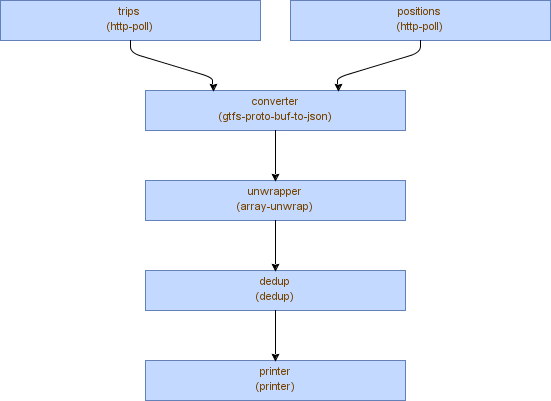
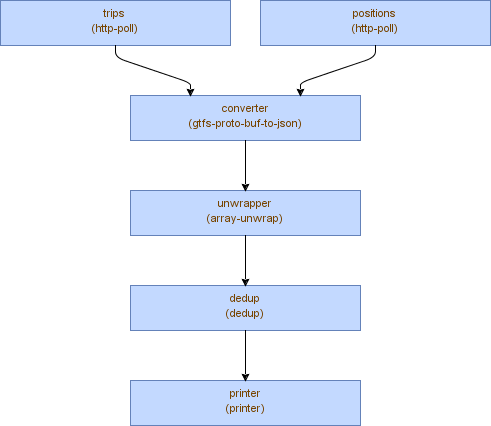
composition-drawer: refactoring

diff --git a/libs/composition-drawer/src/GenerateCompositionImageTask.kt b/libs/composition-drawer/src/GenerateCompositionImageTask.kt
@@ -1,13 +1,12 @@
-package com.satori.libs.composition.drawer
-
 import com.mxgraph.util.*
+import com.satori.libs.composition.drawer.*
 import org.gradle.api.*
 import org.gradle.api.tasks.*
 import java.awt.*
 import java.io.*
 import javax.imageio.*
 
-open class GenerateCompositionImageTask : DefaultTask() {
+open class GenerateCompositionDiagramTask : DefaultTask() {
   
   @InputFile
   var cfgPath: File? = null

diff --git a/libs/composition-drawer/tests/src/com/satori/libs/composition/drawer/AppExample.kt b/libs/composition-drawer/tests/src/com/satori/libs/composition/drawer/AppExample.kt
@@ -6,6 +6,8 @@ object AppExample {
   fun main(vararg args: String) {
     App.main(
       "--cfg-path", "mods-examples/big-blue-bus/res/com/satori/mods/resources/config.json",
+      "--block-width", "100",
+      "--block-height", "100",
       "--img-path", "big-blue-bus.png"
     )
   }

diff --git a/libs/composition-drawer/src/com/satori/libs/composition/drawer/Lib.kt b/libs/composition-drawer/src/com/satori/libs/composition/drawer/Lib.kt
@@ -73,6 +73,6 @@ fun createGraph(cfgPath: String) = createGraph(
 )
 
 fun createGraph(cfgPath: String, width: Double, height: Double) = createGraph(
-  File(cfgPath), CompositionGraphWriter.defaultWidth, CompositionGraphWriter.defaultHeight
+  File(cfgPath), width, height
 )
 

diff --git a/libs/composition-drawer/readme.template.md b/libs/composition-drawer/readme.template.md
@@ -1,0 +1,91 @@
+## Composition diagram drawer
+
+
+#### Example using dedicated 'GenerateCompositionDiagram' gradle task
+```gradle
+buildscript{
+  repositories {
+    mavenCentral()
+    maven {
+      url('https://oss.sonatype.org/content/repositories/snapshots/')
+    }
+  }
+  dependencies {
+    classpath "com.satori:satori-libs-composition-drawer:${project.version}"
+  }
+}
+
+task generateCompositionDiagram(type: GenerateCompositionDiagramTask) {
+  group "codegen"
+  
+  cfgPath = file("path/to/config.json")
+  imgPath = file("path/to/diagram.png")
+  blockWidth = 230
+  blockHeight = 45
+  
+  inputs.file("build.gradle")
+}
+```
+
+### Example using 'JavaExec' gradle task
+```gradle
+repositories {
+  mavenCentral()
+  maven {
+    url('https://oss.sonatype.org/content/repositories/snapshots/')
+  }
+}
+  
+configurations{compositionDrawer}
+dependencies {
+  compositionDrawer "com.satori:satori-libs-composition-drawer:${project.version}"
+}
+
+task generateCompositionDiagram(type: JavaExec) {
+  group "codegen"
+
+  def cfgPath = file("path/to/config.json")
+  def imgPath = file("path/to/diagram.png")
+
+  inputs.file(cfgPath)
+  outputs.file(imgPath)
+
+  classpath = configurations.compositionDrawer
+  main = 'com.satori.libs.composition.drawer.App'
+
+  args "--cfg-path", cfgPath
+  args "--img-path", imgPath
+  args "--block-width", 230
+  args "--block-height", 45
+
+  doFirst {
+    println "generating composition diagram ...."
+    println commandLine.join(" ")
+  }
+}
+```
+
+<% if(!project.version.endsWith("-SNAPSHOT")) {%>
+### Maven (releases)
+```xml
+<dependency>
+    <groupId>com.satori</groupId>
+    <artifactId>satori-libs-composition-drawer</artifactId>
+    <version>${project.version}</version>
+</dependency>
+```
+<% } else {%>
+### Maven (snapshots)
+```xml
+<repository>
+  <url>https://oss.sonatype.org/content/repositories/snapshots/</url>
+</repository>
+```
+```xml
+<dependency>
+    <groupId>com.satori</groupId>
+    <artifactId>satori-libs-composition-drawer</artifactId>
+    <version>${project.version}</version>
+</dependency>
+```
+<% }%>

diff --git a/libs/composition-drawer/readme.md b/libs/composition-drawer/readme.md
@@ -1,0 +1,82 @@
+## Composition diagram drawer
+
+
+#### Example using dedicated 'GenerateCompositionDiagram' gradle task
+```gradle
+buildscript{
+  repositories {
+    mavenCentral()
+    maven {
+      url('https://oss.sonatype.org/content/repositories/snapshots/')
+    }
+  }
+  dependencies {
+    classpath "com.satori:satori-libs-composition-drawer:0.5.12-SNAPSHOT"
+  }
+}
+
+task generateCompositionDiagram(type: GenerateCompositionDiagramTask) {
+  group "codegen"
+  
+  cfgPath = file("path/to/config.json")
+  imgPath = file("path/to/diagram.png")
+  blockWidth = 230
+  blockHeight = 45
+  
+  inputs.file("build.gradle")
+}
+```
+
+### Example using 'JavaExec' gradle task
+```gradle
+repositories {
+  mavenCentral()
+  maven {
+    url('https://oss.sonatype.org/content/repositories/snapshots/')
+  }
+}
+  
+configurations{compositionDrawer}
+dependencies {
+  compositionDrawer "com.satori:satori-libs-composition-drawer:0.5.12-SNAPSHOT"
+}
+
+task generateCompositionDiagram(type: JavaExec) {
+  group "codegen"
+
+  def cfgPath = file("path/to/config.json")
+  def imgPath = file("path/to/diagram.png")
+
+  inputs.file(cfgPath)
+  outputs.file(imgPath)
+
+  classpath = configurations.compositionDrawer
+  main = 'com.satori.libs.composition.drawer.App'
+
+  args "--cfg-path", cfgPath
+  args "--img-path", imgPath
+  args "--block-width", 230
+  args "--block-height", 45
+
+  doFirst {
+    println "generating composition diagram ...."
+    println commandLine.join(" ")
+  }
+}
+```
+
+
+### Maven (snapshots)
+```xml
+<repository>
+  <url>https://oss.sonatype.org/content/repositories/snapshots/</url>
+</repository>
+```
+```xml
+<dependency>
+    <groupId>com.satori</groupId>
+    <artifactId>satori-libs-composition-drawer</artifactId>
+    <version>0.5.12-SNAPSHOT</version>
+</dependency>
+```
+

diff --git a/readme.md b/readme.md
@@ -1,6 +1,6 @@
 ## Satori Composer (preview)
 [![Build Status](https://travis-ci.org/satori-com/satori-composer.svg?branch=dev)](https://travis-ci.org/satori-com/satori-composer)
-[![Build Status](https://img.shields.io/nexus/s/https/oss.sonatype.org/com.satori/satori-composer.svg)](https://oss.sonatype.org/content/repositories/snapshots/com/satori/satori-composer/0.5.11-SNAPSHOT/)
+[![Build Status](https://img.shields.io/nexus/s/https/oss.sonatype.org/com.satori/satori-composer.svg)](https://oss.sonatype.org/content/repositories/snapshots/com/satori/satori-composer/0.5.12-SNAPSHOT/)
 
 #### Example
 ![diagram](docs/files/big-blue-bus-composition.png)
@@ -71,6 +71,7 @@
 - [Mods Suite](https://www.satori.com/docs/opensource/composer#mods-suite)
 - [Building and Running](https://www.satori.com/docs/opensource/composer#building-and-running)
 - [Async support library](docs/async/readme.md)
+- [Composition diagram drawer](libs/composition-drawer/readme.md)
 
 ### Common Libraries
 - [Gtfs Library For Real-Time](https://github.com/satori-com/satori-composer/tree/dev/libs/gtfs)
@@ -86,7 +87,7 @@
 <dependency>
     <groupId>com.satori</groupId>
     <artifactId>satori-composer</artifactId>
-    <version>0.5.11-SNAPSHOT</version>
+    <version>0.5.12-SNAPSHOT</version>
 </dependency>
 ```
 

diff --git a/libs/gtfs/readme.md b/libs/gtfs/readme.md
@@ -14,13 +14,13 @@ classes are generated based on [gtfs-realtime.proto](https://developers.google.c
 <dependency>
     <groupId>com.satori</groupId>
     <artifactId>satori-libs-gtfs</artifactId>
-    <version>0.5.11-SNAPSHOT</version>
+    <version>0.5.12-SNAPSHOT</version>
 </dependency>
 ```
 
 
 ### Download
-[satori-libs-gtfs.v0.5.11-SNAPSHOT.zip](https://github.com/satori-com/satori-composer/releases/download/v0.5.11-SNAPSHOT/satori-libs-gtfs.v0.5.11-SNAPSHOT.zip)<br/>
+[satori-libs-gtfs.v0.5.12-SNAPSHOT.zip](https://github.com/satori-com/satori-composer/releases/download/v0.5.12-SNAPSHOT/satori-libs-gtfs.v0.5.12-SNAPSHOT.zip)<br/>
 [or see latest releases](https://github.com/satori-com/satori-composer/releases/latest)
 
 ### Examples

diff --git a/readme.template.md b/readme.template.md
@@ -14,6 +14,7 @@
 - [Mods Suite](https://www.satori.com/docs/opensource/composer#mods-suite)
 - [Building and Running](https://www.satori.com/docs/opensource/composer#building-and-running)
 - [Async support library](docs/async/readme.md)
+- [Composition diagram drawer](libs/composition-drawer/readme.md)
 
 ### Common Libraries
 - [Gtfs Library For Real-Time](https://github.com/satori-com/satori-composer/tree/dev/libs/gtfs)
